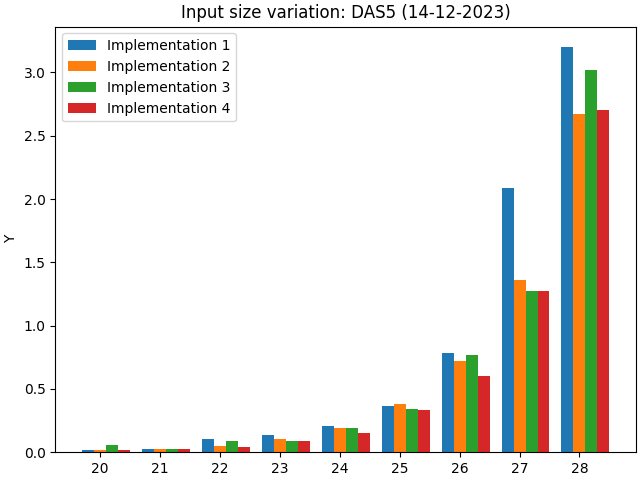
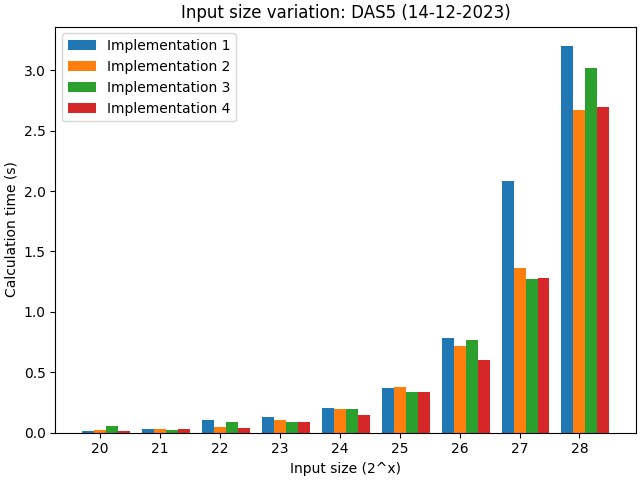
Added boxplots to exp 1

diff --git a/visualize.py b/visualize.py
@@ -89,14 +89,58 @@ def create_plot_exp1(sizes: List[int], times: Dict[str, float], name="") -> None
         # ax.bar_label(rects, padding=3)
         multiplier += 1
     
-    ax.set_ylabel("Y")
+    ax.set_ylabel("Calculation time (s)")
+    ax.set_xlabel("Input size (2^x)")
     ax.set_title(f"Input size variation: {name}")
     ax.set_xticks(x + width, sizes)
     ax.legend(loc="upper left", ncols=1)
     # ax.set_ylim(0, 3)
 
     plt.savefig(f"experiment_1_{name}.png")
+    plt.close(fig)
     # plt.show()
+
+def process_data_exp1_reverse(df: DataFrame) -> Dict:
+    d: Dict = {}
+    df.reset_index()
+
+    # Sort data on input size, implementation, worst calc. time
+    for index, row in df.iterrows():
+        implementation: str = row["Implementation"]
+        input_size: str = row["Input Size"]
+        time: float = row["Worst Calc. Time"]
+        
+        if implementation in d:
+            time_per_size: Dict = d[implementation]
+            if input_size in time_per_size:
+                time_per_size[input_size].append(time)
+            else:
+                time_per_size[input_size] = [time]
+        else:
+            d[implementation]: Dict = {
+                input_size: [
+                    time
+                ]
+            }
+    
+    return d
+
+def exp1_boxplots(data: Dict, date: str, cluster: str) -> None:
+    for implementation in data:
+        fig, ax = plt.subplots(layout="constrained")
+        box_plot_data = []
+        labels = []
+        for size in data[implementation]:
+            times = data[implementation][size]
+            box_plot_data.append(times)
+            labels.append(size)
+        ax.set_title(f"{names[implementation]} {cluster} exp. 1 runtime distribution ({date})")
+        ax.set_ylabel("Calculation time (s)")
+        ax.set_xlabel("Input size (2^x)")
+        ax.boxplot(box_plot_data, patch_artist=True, labels=labels)
+        plt.savefig(f"exp_1_bp_{implementation}_{cluster} ({date})")
+        plt.close(fig)
+        
 
 # Varying input sizes
 def exp1() -> None:
@@ -108,6 +152,10 @@ def exp1() -> None:
     data = process_data_exp1(df)
     sizes, times = serialize_exp1(data)
     create_plot_exp1(sizes, times, name=f"{cluster} ({date})")
+    
+    # DAS-5 box plots
+    data = process_data_exp1_reverse(df)
+    exp1_boxplots(data, date, cluster)
     
 
     # DAS-6 only
